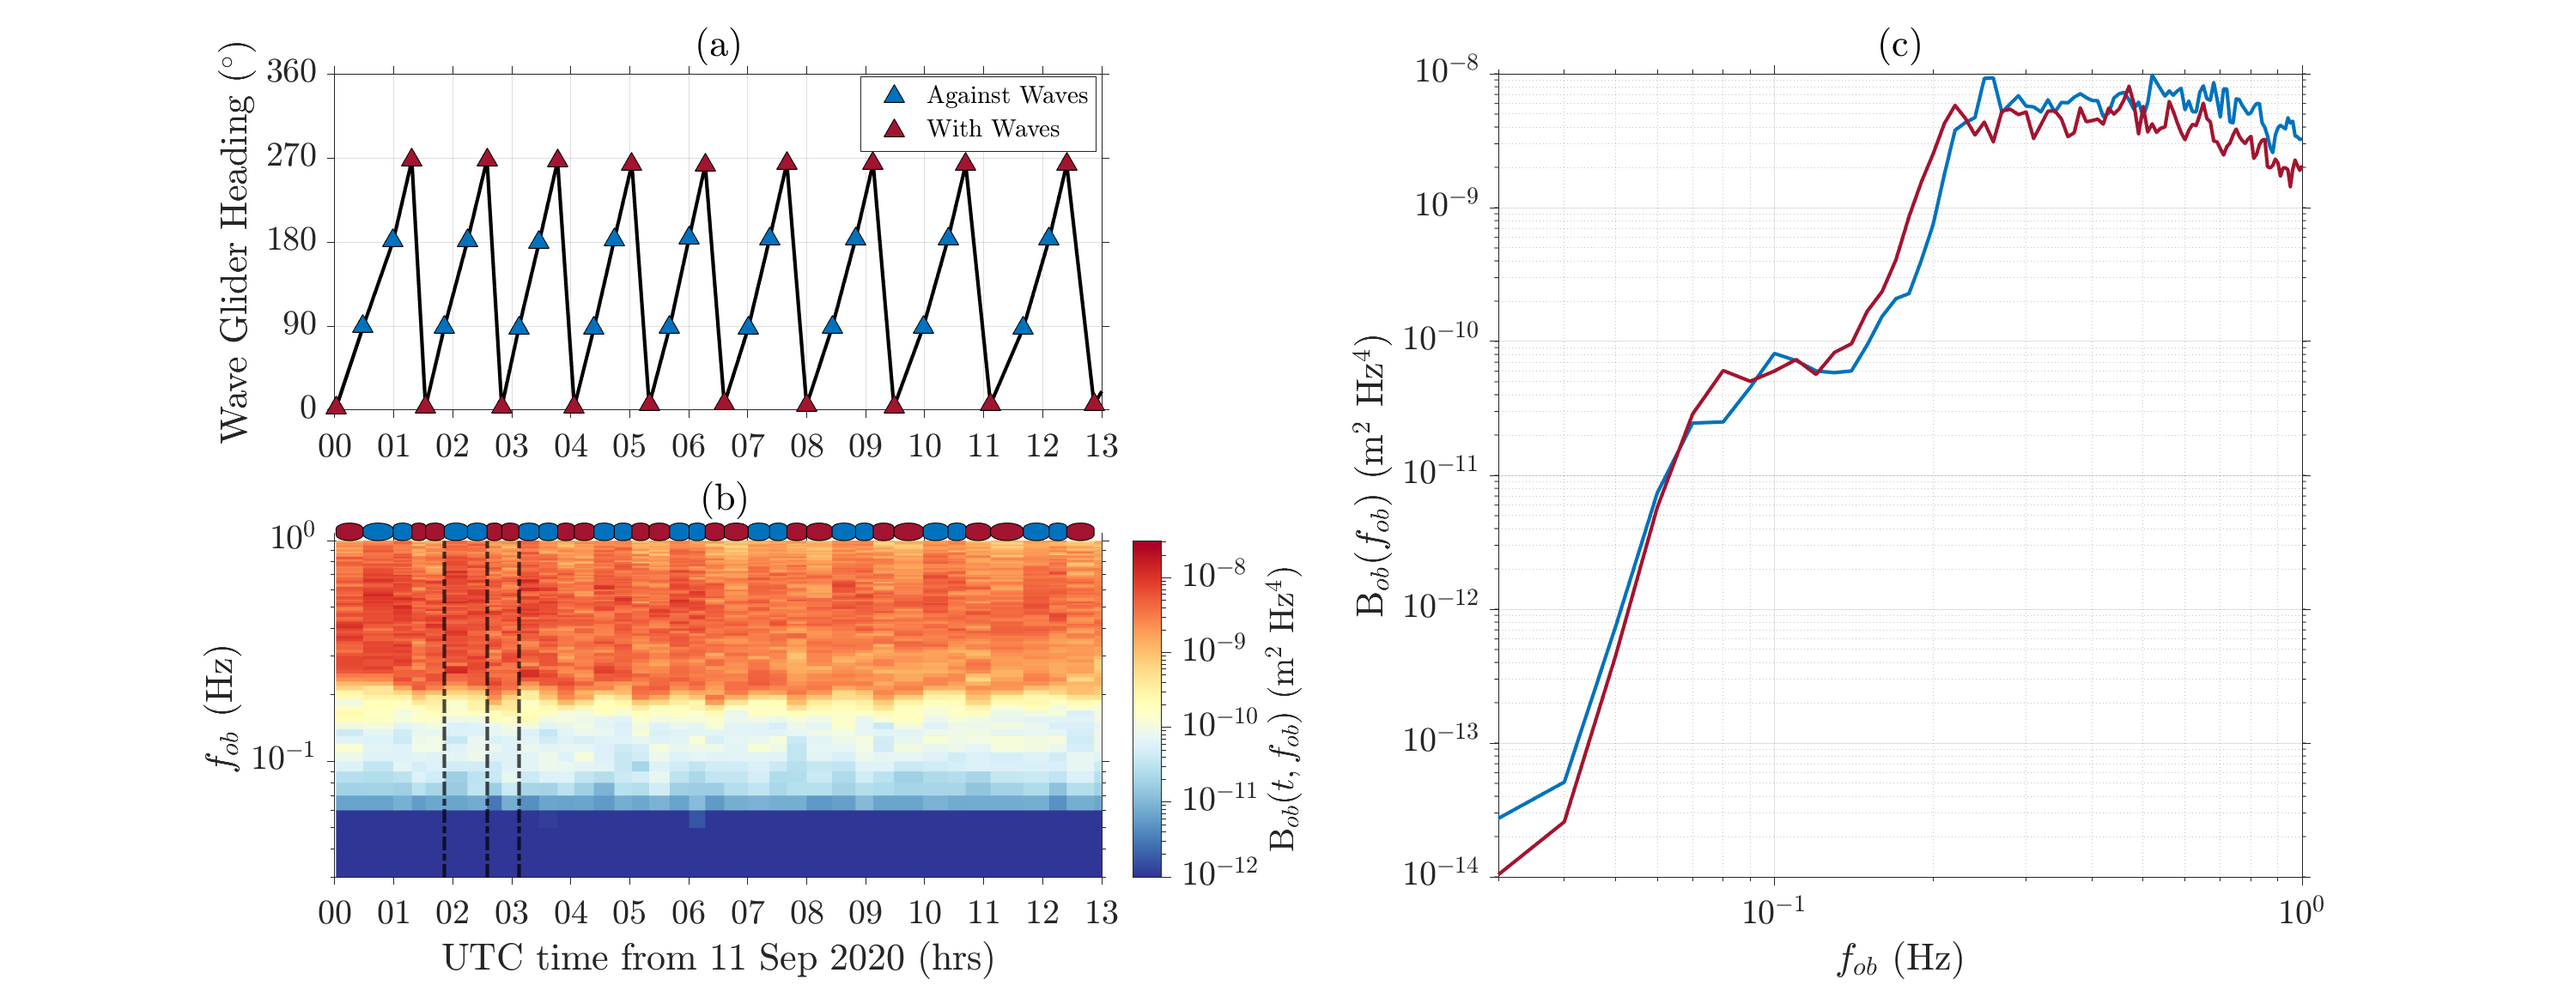
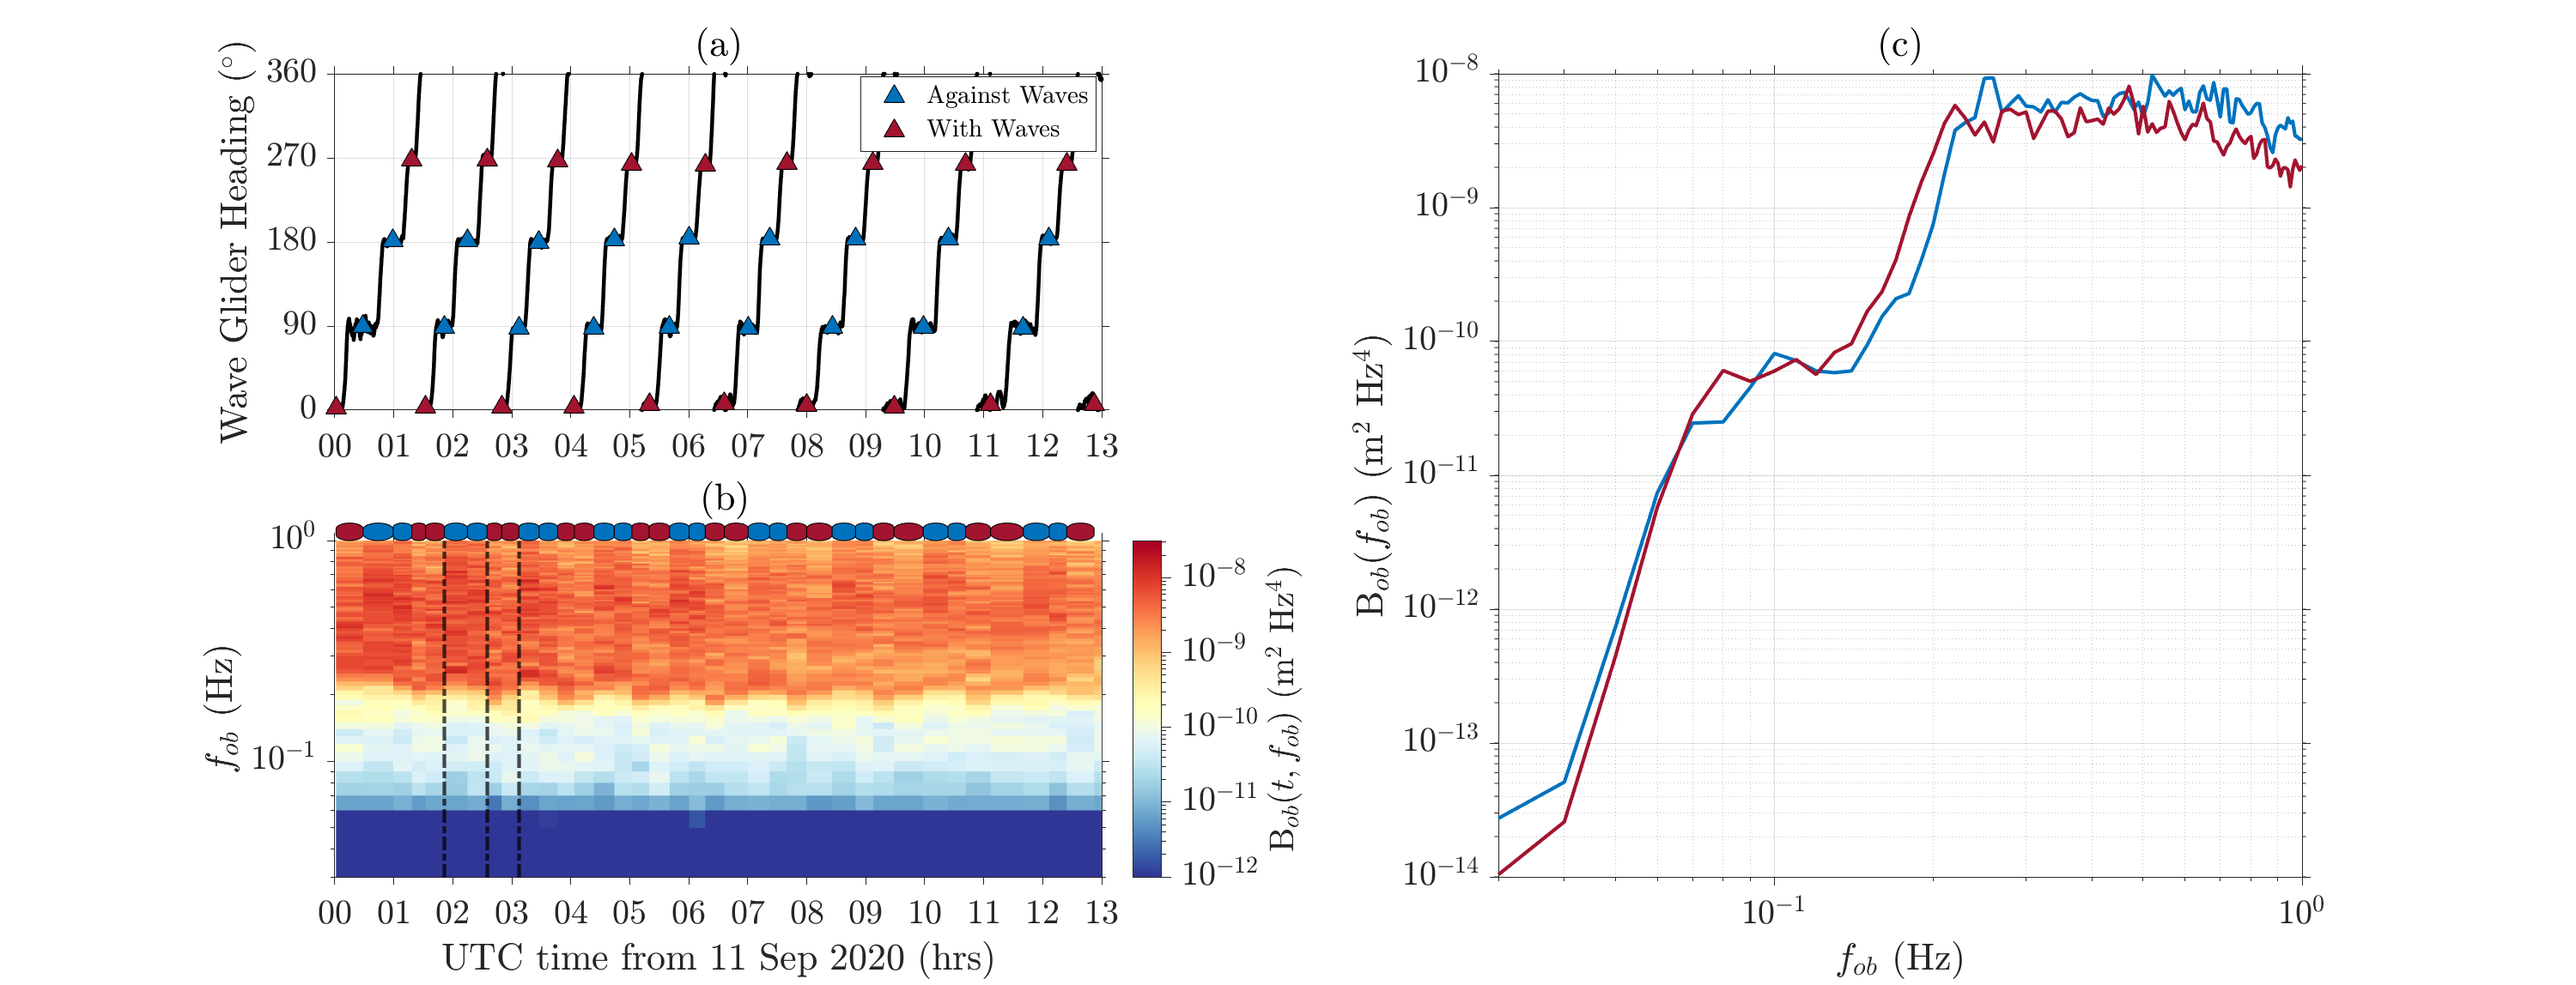
Plot ture_course over directional average of platform heading.

Changed region(s): [[0.124, 0.1524, 0.403, 0.4268], [0.403, 0.1829, 0.434, 0.2744]]

diff --git a/src/fig09.m b/src/fig09.m
@@ -66,10 +66,14 @@ f_noise = sqrt(g/(2*pi*lambda_c));                                          % No
 toolbox = 'WAFO';                                                           % Method used to compute directional spectrum 
 variables = 'heave_velocity';                                               % Heave and horizontal velocity are used to compute the direction spectrum
 scaling = false;                                                            % Variance of directional spectrum is not scaled to match variance of heave spectrum 
+method = 'MEM';                                                             % Method used to compute directional spectrum 
 
 % Upload and process novatel and weather station data
 [nov_s, ~, nlegs_s] = process_wg_data(vehicle, ROOT, date_o, dir_con,...
                                      [dt_n, dt_w]);
+
+% Compute a running mean for platform direction with a 5 minute window
+nov_s.true_course_rm = mod(atan2d(movmean(sind(nov_s.true_course), fe_n*60*5), movmean(cosd(nov_s.true_course), fe_n*60*5)),360);  %convention: CW, going towards, ref north
 
 %% Compute Wave Spectra
 
@@ -77,7 +81,7 @@ scaling = false;                                                            % Va
 for n = 1:nlegs_s
     
     % Compute Directional Spectrum  
-    eval(['[nov_s.Sd(:,:,n), nov_s.f, nov_s.theta] = compute_directional_spectrum(nov_s.L' num2str(n) '.heave, nov_s.L' num2str(n) '.VEL_east, nov_s.L' num2str(n) '.VEL_north, nov_s.L' num2str(n) '.VEL_up, nov_s.L' num2str(n) '.time_20hz, f, df, dtheta, nfft, fe_n, toolbox, variables, scaling, dir_con);']) 
+    eval(['[nov_s.Sd(:,:,n), nov_s.f, nov_s.theta] = compute_directional_spectrum(nov_s.L' num2str(n) '.heave, nov_s.L' num2str(n) '.VEL_east, nov_s.L' num2str(n) '.VEL_north, nov_s.L' num2str(n) '.VEL_up, nov_s.L' num2str(n) '.time_20hz, f, df, dtheta, nfft, fe_n, toolbox, variables, scaling, dir_con, method);']) 
     
     % Compute the Omni-directional Spectra from directional wave spectra 
     nov_s.spectrogram_omni(:,n) = sum(nov_s.Sd(:,:,n) * dtheta, 1);
@@ -107,7 +111,8 @@ nov_s.sat_spectrogram_omni_f_ob = nov_s.spectrogram_omni_f_ob .* (nov_s.f_ob').^
 %% Grab data from small box trajectory and split into with and against waves legs
 
 % Obtain latitude indicies for small box cutoff
-Ilat_s = find(nov_s.mlat_legs < 32.93);  % Indices for legs in small box
+Ilat_s = find(nov_s.mlat_legs < 32.93);                                     % Indices for legs in small box
+Ilat_20hz =  find(nov_s.latitude < 32.93); 
 
 % Grab mean course direction, time and saturation spectrogram for small box
 mD_small = nov_s.mD_legs(Ilat_s); 
@@ -140,6 +145,11 @@ sat_spec_against = sat_spec_small(:,idx_against);
 av_sat_spec_with = mean(sat_spec_small(:,8:9),2);
 av_sat_spec_against = mean(sat_spec_small(:,6:7),2);
 
+% Compute average saturation spectra for all with and against legs
+% respectively
+av_sat_spec_with_all = mean(sat_spec_with,2);
+av_sat_spec_against_all = mean(sat_spec_against,2);
+
 %% Plot mean platform direction saturation wave spectrogram, and case study of two saturation spectrum 
 
 % Set plotting variables
@@ -161,8 +171,8 @@ figure('units','normalized','outerposition',[0 0 1 0.7])
 %------------- Subplot 1 -------------%
 ax1 = subplot(2,2,1);
 
-% Plot mean direction per leg
-plot(nov_s.time_legs(Ilat_s), nov_s.mD_legs(Ilat_s), '-k', 'LineWidth', 2);
+% Plot platform propagation direction at 20 hz 
+plot(nov_s.time_20hz(Ilat_20hz), nov_s.true_course_rm(Ilat_20hz), '.k', 'MarkerSize', 5);
 
 hold on 
     pc1 = plot(time_against, mD_against, '^', 'MarkerSize', 10, 'MarkerFaceColor', blue, 'MarkerEdgeColor', 'k'); 
@@ -253,6 +263,13 @@ pc1 = loglog(nov_s.f_ob, av_sat_spec_against, '-', 'LineWidth', 2, 'color', blue
 hold on
 pc2 = loglog(nov_s.f_ob, av_sat_spec_with, '-', 'LineWidth', 2, 'color', red);
 hold off
+
+% Plot average saturation spectra for all with and against legs resp.  
+% pc1 = loglog(nov_s.f_ob, av_sat_spec_against_all, '-', 'LineWidth', 2, 'color', blue);
+% 
+% hold on
+% pc2 = loglog(nov_s.f_ob, av_sat_spec_with_all, '-', 'LineWidth', 2, 'color', red);
+% hold off
 
 % Set figure Attributes
 title('(c)')
